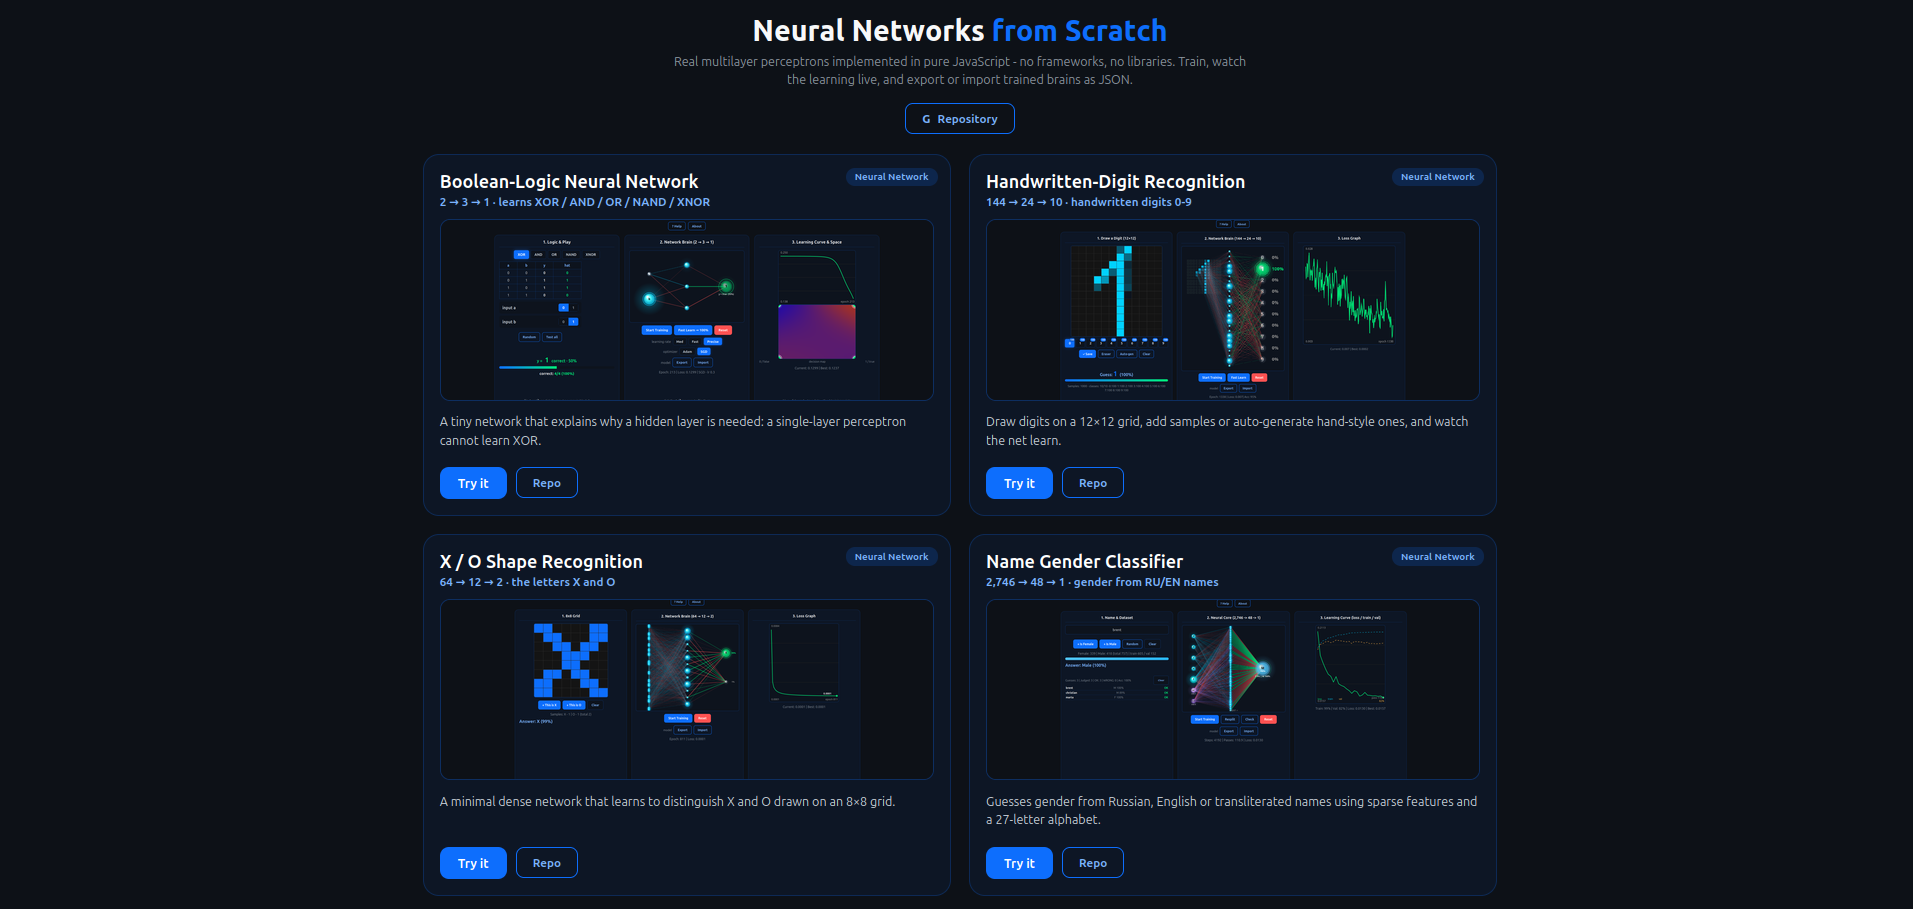
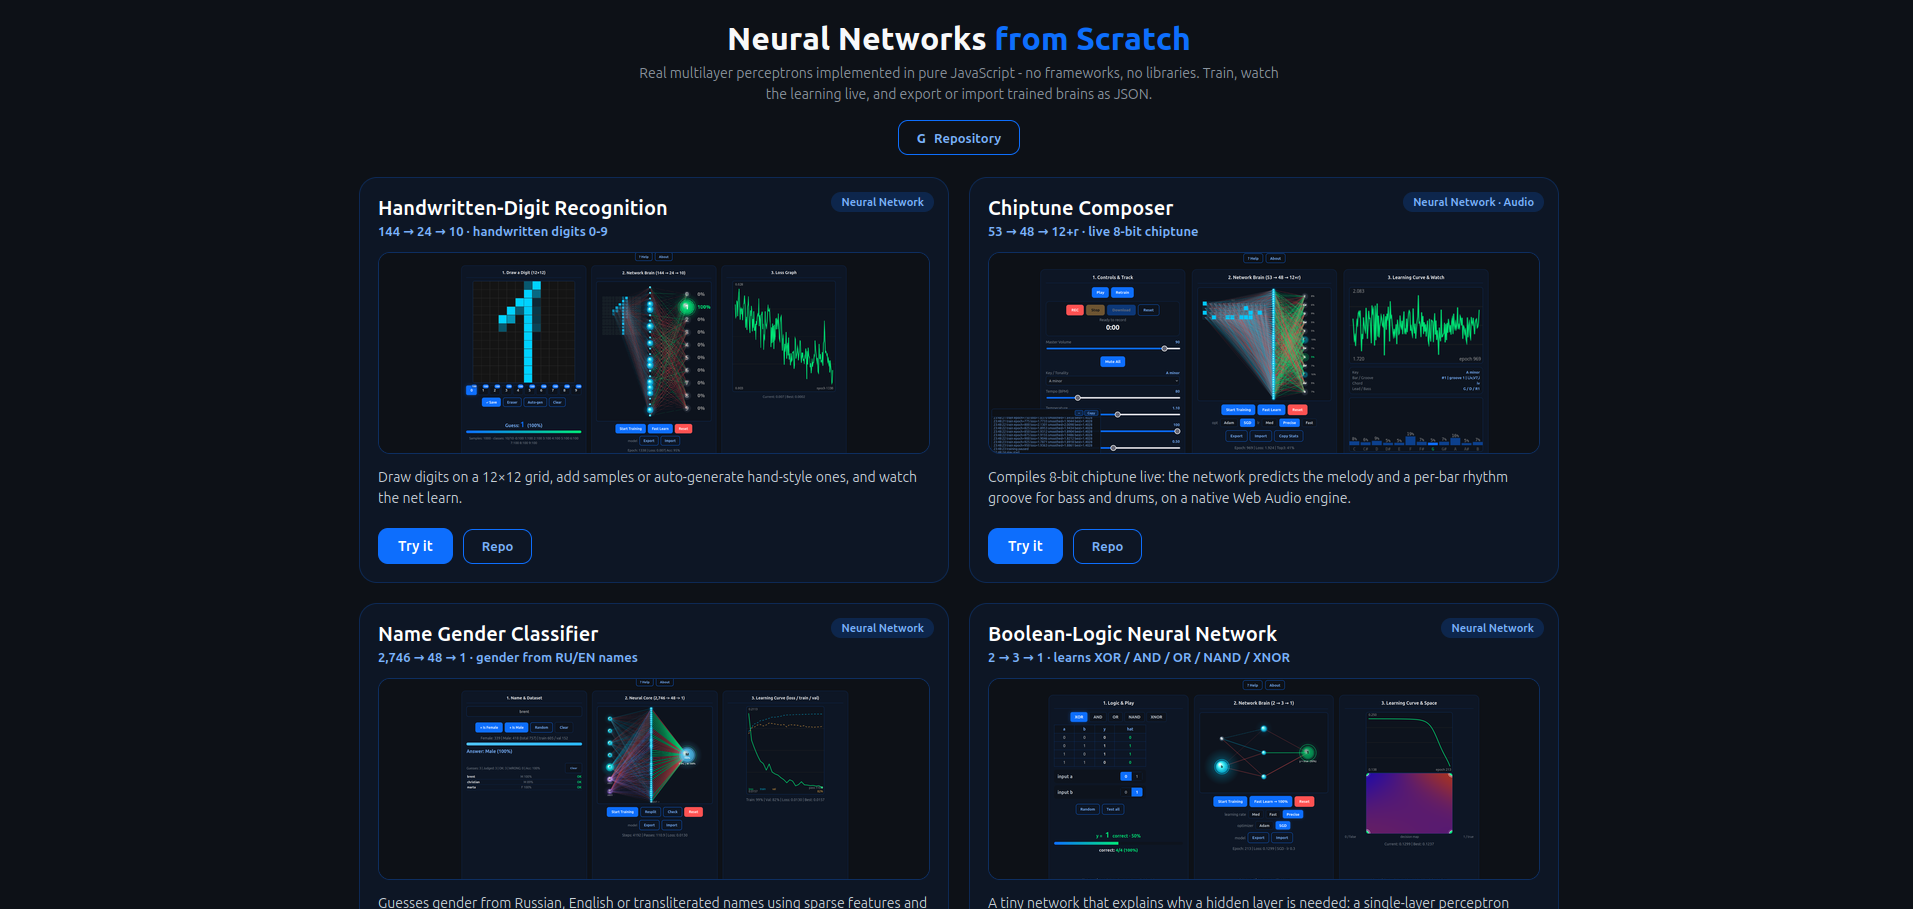
from-scratch-neural-networks v1.2.0

diff --git a/index.html b/index.html
@@ -22,18 +22,6 @@
 
     <article class="card">
         <span class="card-badge">Neural Network</span>
-        <h2 class="card-title">Boolean-Logic Neural Network</h2>
-        <p class="card-meta">2 → 3 → 1 · learns XOR / AND / OR / NAND / XNOR</p>
-        <div class="thumb"><img src="data/images/logic-gates-neural-network.png" alt="Boolean-Logic Neural Network"></div>
-        <p class="card-desc">A tiny network that explains why a hidden layer is needed: a single-layer perceptron cannot learn XOR.</p>
-        <div class="card-actions">
-            <a class="btn btn-blue" href="logic-gates-neural-network.html">Try it</a>
-            <a class="btn btn-ghost" href="https://github.com/smartlegionlab/from-scratch-neural-networks" target="_blank" rel="noopener">Repo</a>
-        </div>
-    </article>
-
-    <article class="card">
-        <span class="card-badge">Neural Network</span>
         <h2 class="card-title">Handwritten-Digit Recognition</h2>
         <p class="card-meta">144 → 24 → 10 · handwritten digits 0-9</p>
         <div class="thumb"><img src="data/images/digit-recognition-neural-network.png" alt="Handwritten-Digit Recognition Neural Network"></div>
@@ -45,13 +33,13 @@
     </article>
 
     <article class="card">
-        <span class="card-badge">Neural Network</span>
-        <h2 class="card-title">X / O Shape Recognition</h2>
-        <p class="card-meta">64 → 12 → 2 · the letters X and O</p>
-        <div class="thumb"><img src="data/images/x-o-recognition-neural-network.png" alt="X / O Shape Recognition Neural Network"></div>
-        <p class="card-desc">A minimal dense network that learns to distinguish X and O drawn on an 8×8 grid.</p>
+        <span class="card-badge">Neural Network · Audio</span>
+        <h2 class="card-title">Chiptune Composer</h2>
+        <p class="card-meta">53 → 48 → 12+r · live 8-bit chiptune</p>
+        <div class="thumb"><img src="data/images/chiptune-composer-neural-network.png" alt="Chiptune Composer Neural Network"></div>
+        <p class="card-desc">Compiles 8-bit chiptune live: the network predicts the melody and a per-bar rhythm groove for bass and drums, on a native Web Audio engine.</p>
         <div class="card-actions">
-            <a class="btn btn-blue" href="x-o-recognition-neural-network.html">Try it</a>
+            <a class="btn btn-blue" href="chiptune-composer-neural-network.html">Try it</a>
             <a class="btn btn-ghost" href="https://github.com/smartlegionlab/from-scratch-neural-networks" target="_blank" rel="noopener">Repo</a>
         </div>
     </article>
@@ -69,13 +57,25 @@
     </article>
 
     <article class="card">
-        <span class="card-badge">Neural Network · Audio</span>
-        <h2 class="card-title">Chiptune Composer</h2>
-        <p class="card-meta">53 → 48 → 12+r · live 8-bit chiptune</p>
-        <div class="thumb"><img src="data/images/chiptune-composer-neural-network.png" alt="Chiptune Composer Neural Network"></div>
-        <p class="card-desc">Compiles 8-bit chiptune live: the network predicts the melody and a per-bar rhythm groove for bass and drums, on a native Web Audio engine.</p>
+        <span class="card-badge">Neural Network</span>
+        <h2 class="card-title">Boolean-Logic Neural Network</h2>
+        <p class="card-meta">2 → 3 → 1 · learns XOR / AND / OR / NAND / XNOR</p>
+        <div class="thumb"><img src="data/images/logic-gates-neural-network.png" alt="Boolean-Logic Neural Network"></div>
+        <p class="card-desc">A tiny network that explains why a hidden layer is needed: a single-layer perceptron cannot learn XOR.</p>
         <div class="card-actions">
-            <a class="btn btn-blue" href="chiptune-composer-neural-network.html">Try it</a>
+            <a class="btn btn-blue" href="logic-gates-neural-network.html">Try it</a>
+            <a class="btn btn-ghost" href="https://github.com/smartlegionlab/from-scratch-neural-networks" target="_blank" rel="noopener">Repo</a>
+        </div>
+    </article>
+
+    <article class="card">
+        <span class="card-badge">Neural Network</span>
+        <h2 class="card-title">X / O Shape Recognition</h2>
+        <p class="card-meta">64 → 12 → 2 · the letters X and O</p>
+        <div class="thumb"><img src="data/images/x-o-recognition-neural-network.png" alt="X / O Shape Recognition Neural Network"></div>
+        <p class="card-desc">A minimal dense network that learns to distinguish X and O drawn on an 8×8 grid.</p>
+        <div class="card-actions">
+            <a class="btn btn-blue" href="x-o-recognition-neural-network.html">Try it</a>
             <a class="btn btn-ghost" href="https://github.com/smartlegionlab/from-scratch-neural-networks" target="_blank" rel="noopener">Repo</a>
         </div>
     </article>

diff --git a/chiptune-composer-neural-network.html b/chiptune-composer-neural-network.html
@@ -159,7 +159,7 @@
     <div class="modal">
         <button type="button" class="modal-close" onclick="closeModal(this)">&#10005;</button>
         <h3>About</h3>
-        <div class="ab-head"><div class="ab-name">Chiptune Composer Neural Network</div><div class="ab-ver">version 1.7.0</div></div>
+        <div class="ab-head"><div class="ab-name">Chiptune Composer Neural Network</div><div class="ab-ver">version 1.2.0</div></div>
         <p>A from-scratch MLP (53 -&gt; 48 -&gt; 12 + rhythm) in pure JavaScript. No libraries, no samples.</p>
         <p>The network has two shared-hidden heads: it predicts the next pitch class and, per bar, one of four rhythm grooves for bass + drums. Trained by mini-batch SGD / Adam with cross-entropy, weight decay and clipping. Melody is locked to the chosen key / scale.</p>
         <p>An educational demo of live music generation: every note is synthesized in the browser with the Web Audio API, and the piece stays in key and follows a chord progression.</p>

diff --git a/digit-recognition-neural-network.html b/digit-recognition-neural-network.html
@@ -79,7 +79,7 @@
         <h3>About</h3>
         <div class="ab-head">
             <div class="ab-name">Handwritten-Digit Recognition Neural Network</div>
-            <div class="ab-ver">version 1.0.1</div>
+            <div class="ab-ver">version 1.2.0</div>
         </div>
         <p><b>Handwritten-Digit Recognition Neural Network</b> is a real multilayer perceptron written from scratch in JavaScript: 144 inputs (12×12 grayscale grid) → 24 sigmoid hidden neurons → 10 sigmoid outputs, trained by <b>mini-batch SGD with momentum (exact MSE backprop)</b>.</p>
         <p><b>Auto-gen</b> renders digits like handwriting: vector strokes with random rotation, scale, shear, offset, bends, wobble (jitter), pen-lift gaps and variable thickness.</p>

diff --git a/logic-gates-neural-network.html b/logic-gates-neural-network.html
@@ -112,7 +112,7 @@
         <h3>About</h3>
         <div class="ab-head">
             <div class="ab-name">Boolean-Logic Neural Network</div>
-            <div class="ab-ver">version 1.0.1</div>
+            <div class="ab-ver">version 1.2.0</div>
         </div>
         <p><b>Boolean-Logic Neural Network</b> is a real multilayer perceptron (MLP) written from scratch in pure JavaScript, learning classic Boolean logic with full live visualization.</p>
         <p><b>Architecture:</b> 2 inputs → 3 sigmoid hidden neurons → 1 sigmoid output (&gt; 0.5 = true). Trained by <b>stochastic mini-batch optimization</b> - <b>SGD with momentum (0.9)</b> (default) or <b>Adam</b>. Training <b>auto-stops at 4/4 correct</b>.</p>

diff --git a/x-o-recognition-neural-network.html b/x-o-recognition-neural-network.html
@@ -72,7 +72,7 @@
         <h3>About</h3>
         <div class="ab-head">
             <div class="ab-name">X / O Shape Recognition Neural Network</div>
-            <div class="ab-ver">version 1.0.1</div>
+            <div class="ab-ver">version 1.2.0</div>
         </div>
         <p><b>X / O Shape Recognition Neural Network</b> is a real artificial neural network, written from scratch in pure JavaScript - no frameworks, no libraries, no tricks.</p>
         <p><b>Architecture:</b> a multilayer perceptron (MLP) with 64 inputs (one per grid cell), 12 hidden neurons and 2 outputs (X and O). Sigmoid activation, trained by backpropagation with gradient descent.</p>

diff --git a/name-gender-classifier-neural-network.html b/name-gender-classifier-neural-network.html
@@ -83,7 +83,7 @@
         <h3>About</h3>
         <div class="ab-head">
             <div class="ab-name">Name Gender Classifier Neural Network</div>
-            <div class="ab-ver">version 1.0.1</div>
+            <div class="ab-ver">version 1.2.0</div>
         </div>
         <p><b>Name Gender Classifier Neural Network</b> - a real neural network in pure JavaScript with live visualization; an upgraded port of the Rust project name-gender-nn-rs.</p>
         <p><b>Normalization:</b> every name is transliterated to latin (Cyrillic to Latin), so Russian, English and translit inputs share one 27-letter alphabet.</p>
